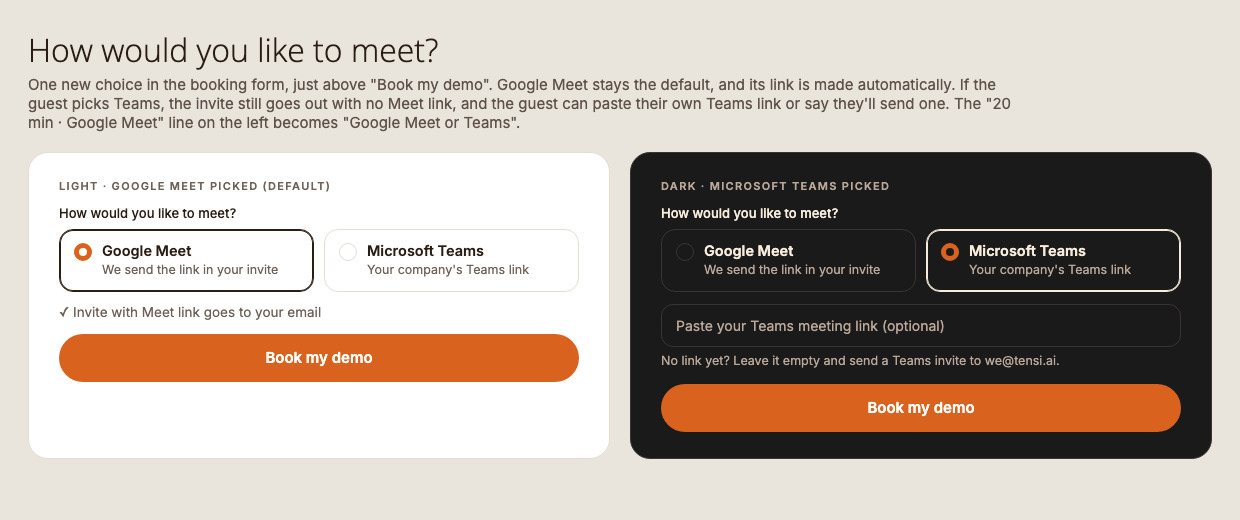
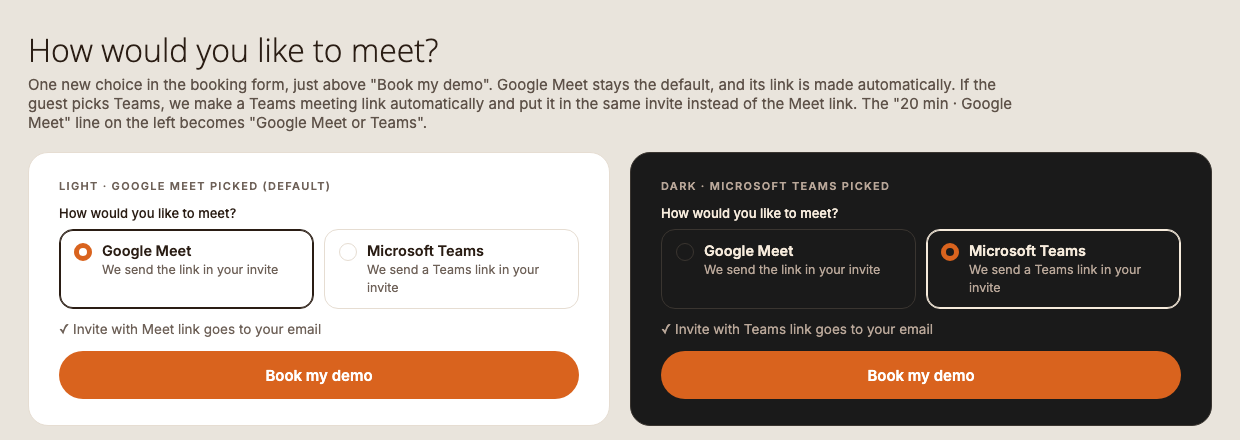
Meet/Teams still: we make the Teams link

diff --git a/mockups/book-demo/meet-choice.html b/mockups/book-demo/meet-choice.html
@@ -19,17 +19,16 @@ label{display:block;font:500 13px Inter;margin-bottom:8px}
 .fx{display:flex;gap:8px;font-size:13.5px;color:var(--mute);margin-bottom:14px}
 </style></head><body>
 <h1>How would you like to meet?</h1>
-<p class="sub">One new choice in the booking form, just above "Book my demo". Google Meet stays the default, and its link is made automatically. If the guest picks Teams, the invite still goes out with no Meet link, and the guest can paste their own Teams link or say they'll send one. The "20 min · Google Meet" line on the left becomes "Google Meet or Teams".</p>
+<p class="sub">One new choice in the booking form, just above "Book my demo". Google Meet stays the default, and its link is made automatically. If the guest picks Teams, we make a Teams meeting link automatically and put it in the same invite instead of the Meet link. The "20 min · Google Meet" line on the left becomes "Google Meet or Teams".</p>
 <div class="grid">
  <div class="c"><div class="cap">Light · Google Meet picked (default)</div>
   <label>How would you like to meet?</label>
-  <div class="opts"><div class="o on"><i class="r"></i><div><b>Google Meet</b><small>We send the link in your invite</small></div></div><div class="o"><i class="r"></i><div><b>Microsoft Teams</b><small>Your company's Teams link</small></div></div></div>
+  <div class="opts"><div class="o on"><i class="r"></i><div><b>Google Meet</b><small>We send the link in your invite</small></div></div><div class="o"><i class="r"></i><div><b>Microsoft Teams</b><small>We send a Teams link in your invite</small></div></div></div>
   <div class="fx">✓ Invite with Meet link goes to your email</div>
   <div class="book">Book my demo</div></div>
  <div class="c d"><div class="cap">Dark · Microsoft Teams picked</div>
   <label>How would you like to meet?</label>
-  <div class="opts"><div class="o"><i class="r"></i><div><b>Google Meet</b><small>We send the link in your invite</small></div></div><div class="o on"><i class="r"></i><div><b>Microsoft Teams</b><small>Your company's Teams link</small></div></div></div>
-  <div class="in">Paste your Teams meeting link (optional)</div>
-  <div class="note">No link yet? Leave it empty and send a Teams invite to we@tensi.ai.</div>
+  <div class="opts"><div class="o"><i class="r"></i><div><b>Google Meet</b><small>We send the link in your invite</small></div></div><div class="o on"><i class="r"></i><div><b>Microsoft Teams</b><small>We send a Teams link in your invite</small></div></div></div>
+  <div class="fx">✓ Invite with Teams link goes to your email</div>
   <div class="book">Book my demo</div></div>
 </div></body></html>
